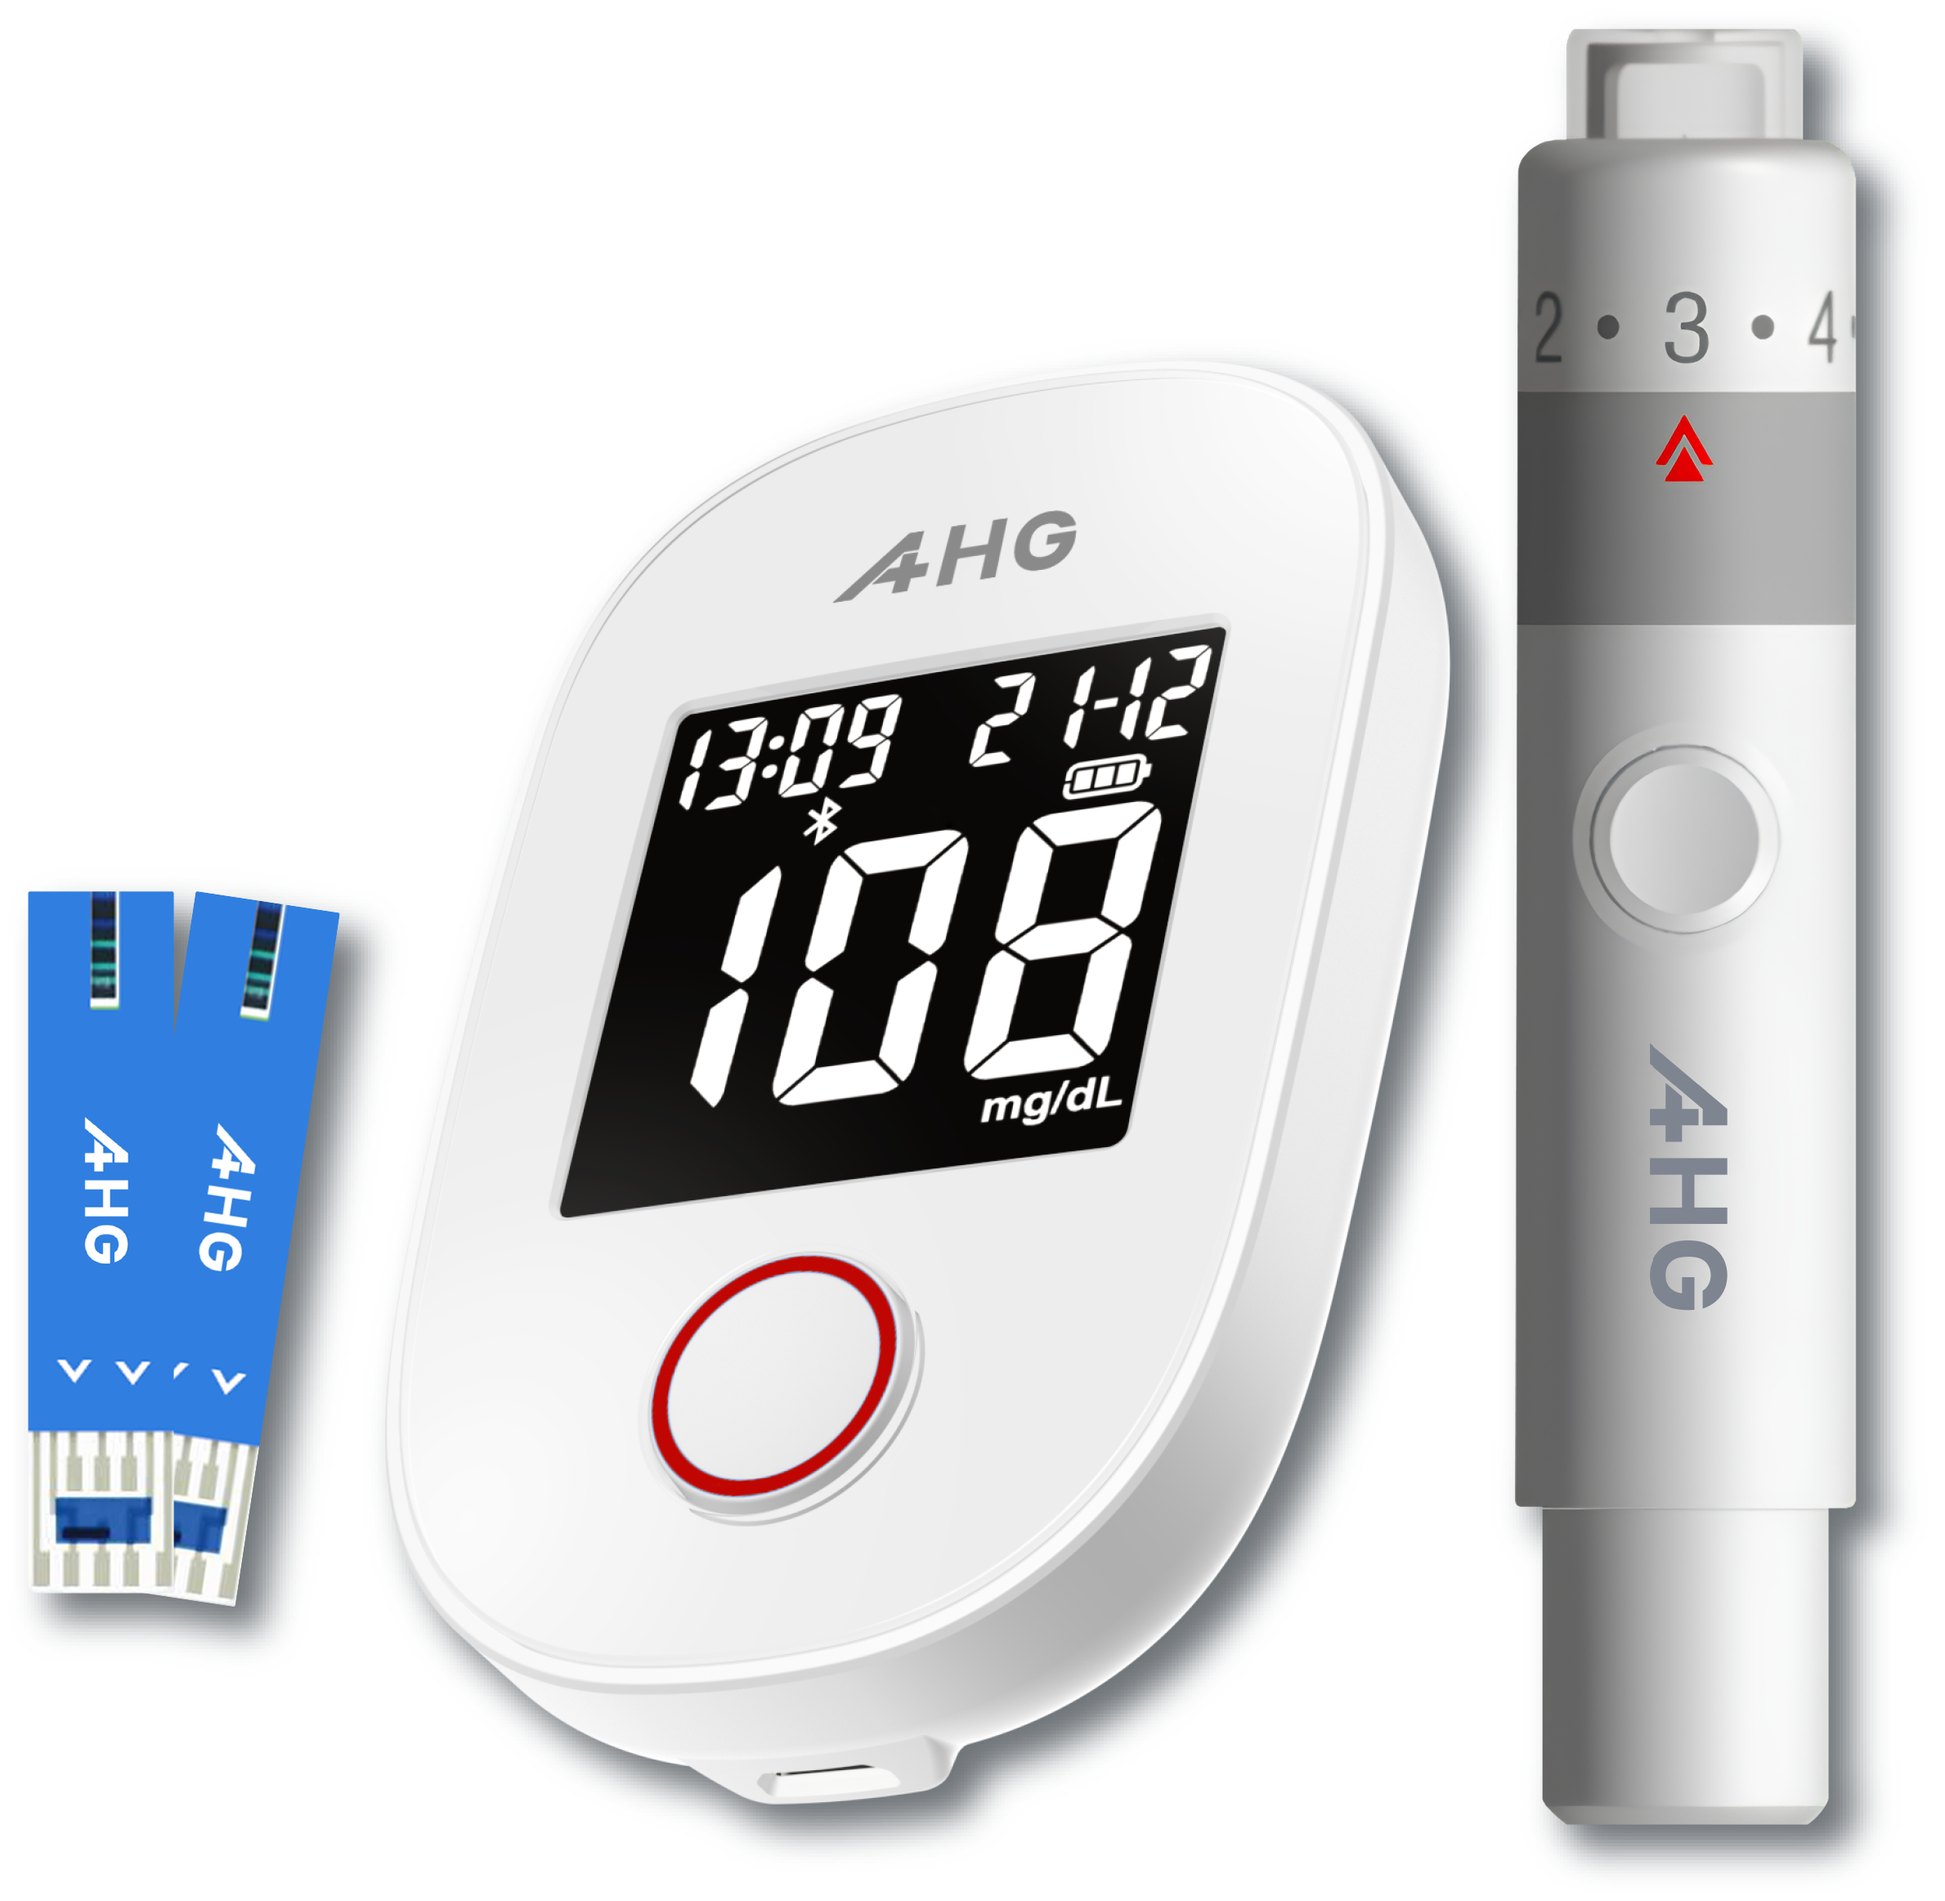
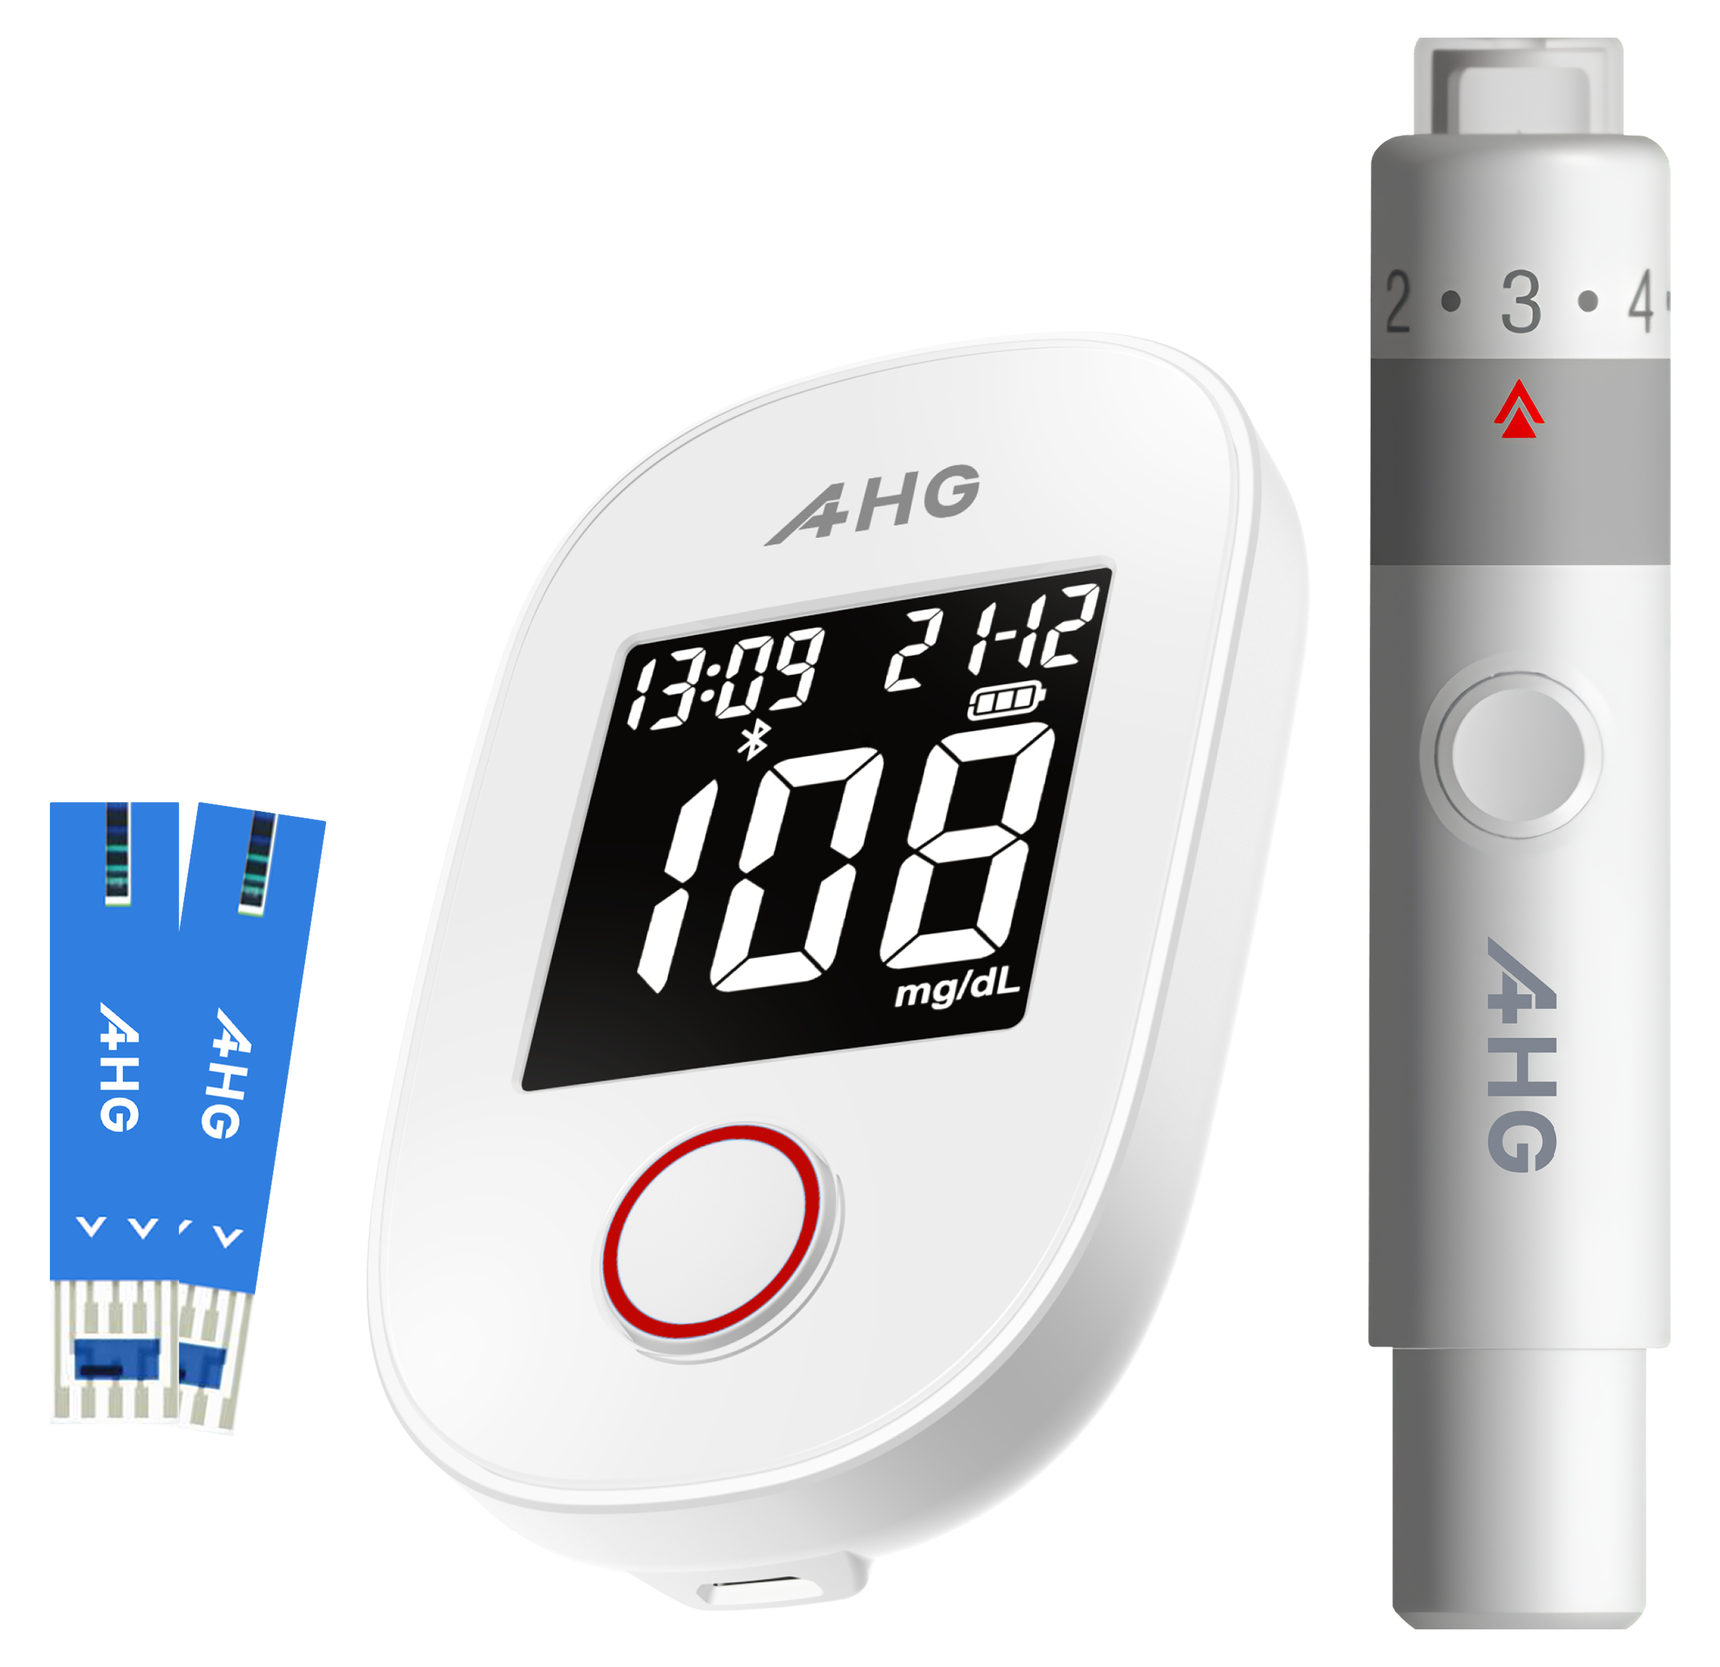
new Changes

diff --git a/pages/bgm2022.vue b/pages/bgm2022.vue
@@ -29,7 +29,7 @@
             </div>
           </div>
           <div class="flex items-end justify-center gap-2 w-2/5 relative lg:absolute -right-12 -bottom-6  lg:m-0">
-            <img src="~/assets/images/bgmPage/2022/main.png" class="max-h-[420px] lg:max-h-[420px] hidden md:block" />
+            <img src="~/assets/images/bgmPage/2022/main.png?v=2" class="max-h-[420px] lg:max-h-[420px] hidden md:block" />
           </div>
         </div>
         <AHGButton to="/distributor" color="white" class="font-medium" width="200px" is-show-more>

diff --git a/pages/bgm2285.vue b/pages/bgm2285.vue
@@ -28,7 +28,7 @@
             </div>
           </div>
           <div class="flex items-end justify-center gap-2 w-2/5 relative lg:absolute -right-12 -bottom-6  lg:m-0">
-            <img src="~/assets/images/bgmPage/2285/main.png" class="max-h-[420px] lg:max-h-[420px] hidden md:block" />
+            <img src="~/assets/images/bgmPage/2285/main.png?v=2" class="max-h-[420px] lg:max-h-[420px] hidden md:block" />
           </div>
         </div>
         <AHGButton to="/distributor" color="white" width="200px" is-show-more>
